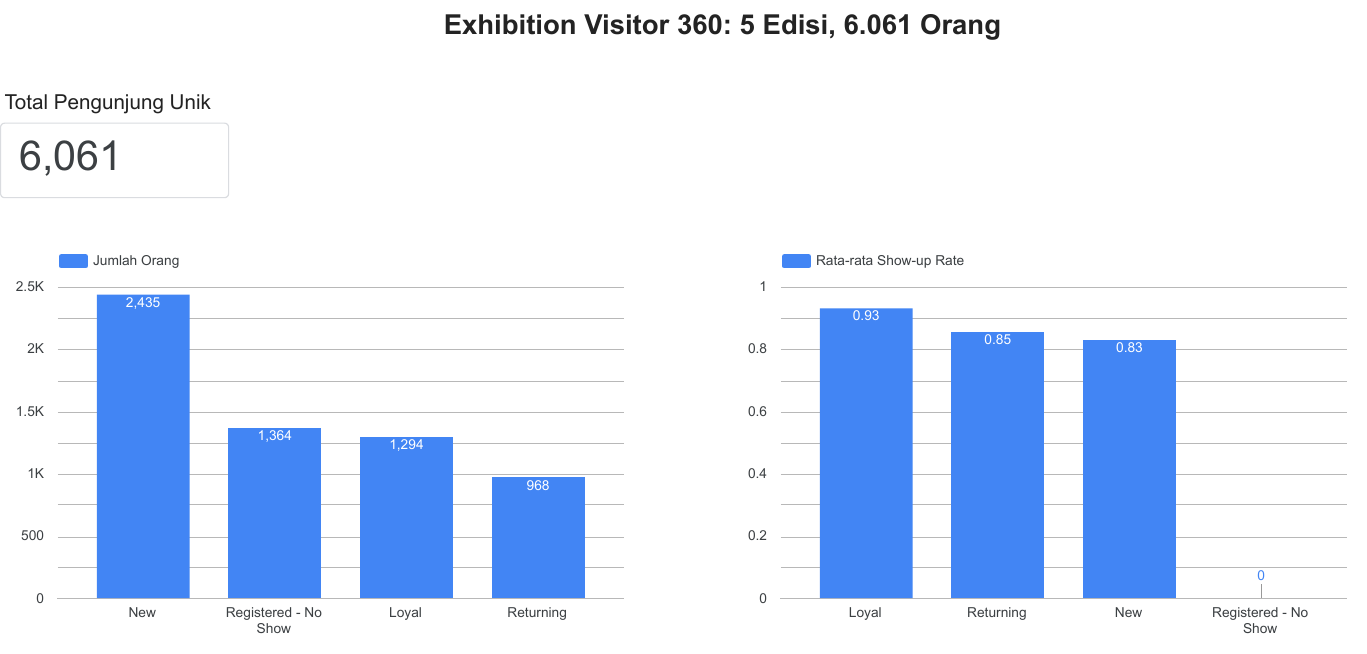
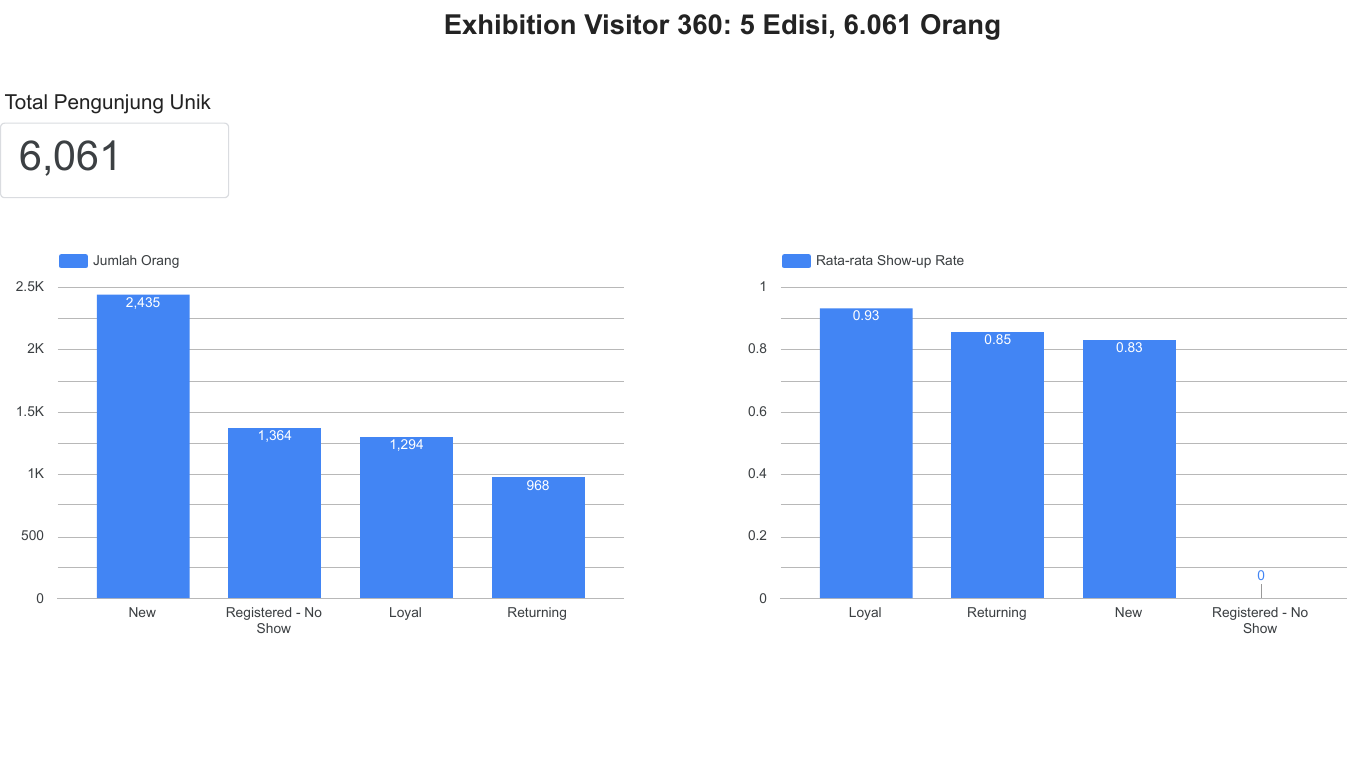
Add files via upload

diff --git a/exhibition-visitor-360.html b/exhibition-visitor-360.html
@@ -1,0 +1,91 @@
+<!DOCTYPE html>
+<html lang="en"><head><meta charset="utf-8"><meta name="viewport" content="width=device-width, initial-scale=1"><link rel="preconnect" href="https://fonts.googleapis.com"><link rel="preconnect" href="https://fonts.gstatic.com" crossorigin><link href="https://fonts.googleapis.com/css2?family=Familjen+Grotesk:wght@500;700&family=IBM+Plex+Sans:wght@400;500&display=swap" rel="stylesheet"><link rel="stylesheet" href="style.css"><script src="theme.js"></script><title>Exhibition Visitor 360 | Kemang Data</title></head>
+<body><div class="wrap">
+<header class="top"><a class="brand" href="index.html"><svg width="24" height="24" viewBox="0 0 24 24" aria-hidden="true"><g fill="#0e7c7b"><circle cx="5" cy="19" r="2.6"/><circle cx="12" cy="19" r="2.6"/><circle cx="12" cy="12" r="2.6"/><circle cx="19" cy="19" r="2.6"/><circle cx="19" cy="12" r="2.6"/></g><circle cx="19" cy="5" r="2.6" fill="#f2c811"/></svg>Kemang Data</a><nav><a href="index.html#projects">All projects</a><a href="#contact">Contact</a><button class="tg" id="tg" type="button" aria-label="Toggle dark mode">☾</button></nav></header>
+<main>
+<div class="case">
+<div class="case-text">
+<p class="eyebrow">SQL · BigQuery · Data quality</p>
+<h1>Exhibition Visitor 360</h1>
+<p class="sub">An exhibition organizer kept visitor data in 3 separate systems, and the numbers never matched. We cleaned and merged them in BigQuery into one table with one row per person, then checked the result against the official reports.</p>
+<ol class="flow" aria-label="Project steps">
+<li><b>1</b><div><strong>Load</strong><span>3 systems + official report, 5 editions</span></div></li>
+<li><b>2</b><div><strong><a href="#cleaning">Clean</a></strong><span>emails, phones, company names, duplicates</span></div></li>
+<li><b>3</b><div><strong><a href="#identity">Match people</a></strong><span>same email or phone = same person</span></div></li>
+<li><b>4</b><div><strong><a href="#recon">Check</a></strong><span>compare with official numbers &rarr;</span></div></li>
+</ol>
+<div class="kpis"><div><strong>6,061</strong><span>unique people</span></div><div><strong>99.0%</strong><span>data quality</span></div><div><strong>&le; 3</strong><span>registration gap</span></div></div>
+</div>
+<div class="views" id="views"><div class="vtabs" role="tablist" aria-label="Project views"><button type="button" role="tab" aria-selected="true">1 &middot; Dashboard</button><button type="button" role="tab" aria-selected="false">2 &middot; Reconciliation</button><button type="button" class="fs" id="fs">&#10530; Full screen</button></div><figure class="shot"><img src="exhibition-360-dashboard.png" alt="Exhibition Visitor 360 dashboard: 6,061 unique people split into four segments, with show-up rate per segment"><figcaption><b>Dashboard.</b> 6,061 unique people in 4 segments. Loyal visitors show up 93% of the time.</figcaption></figure><figure class="shot"><img src="exhibition-360-reconciliation.png" alt="Reconciliation table comparing raw and clean counts with the official report for each of 5 editions" loading="lazy"><figcaption><b>Reconciliation.</b> Our counts vs the official report, per edition, before and after cleaning.</figcaption></figure></div>
+</div>
+<section><h2>The problem</h2>
+<div class="cols">
+<div><h3>What was wrong</h3><ul>
+<li>Registrations (CRM) had duplicates, typo emails, mixed phone formats and company names written many ways.</li>
+<li>Attendance scans (ERP) had double scans and IDs with different casing or spaces.</li>
+<li>Campaign events (marketing, nested JSON) had duplicate events and emails in capital letters.</li>
+<li>Registrations were 126 to 157 higher than the official report in every edition.</li></ul></div>
+<div><h3>Questions nobody could answer</h3><ul>
+<li>How many unique people really came?</li>
+<li>Who are the loyal visitors that come every year?</li>
+<li>Which registered people never showed up?</li>
+<li>Can we trust the numbers in the official report?</li></ul></div></div></section>
+<section><h2>What we did</h2>
+<div class="cols">
+<div><h3>Pipeline (BigQuery SQL)</h3><ul>
+<li>Loaded 4 raw tables and kept them untouched.</li>
+<li>Wrote reusable SQL functions to clean email, phone and company name.</li>
+<li>Removed duplicate registrations, scans and events.</li>
+<li>Gave each person one ID by matching email or phone across all 3 systems.</li>
+<li>Built the visitor_360 table: editions attended, segment and campaign engagement.</li></ul></div>
+<div><h3>Segments</h3><ul>
+<li><strong>Loyal:</strong> attended 3 or more editions (1,294 people).</li>
+<li><strong>Returning:</strong> attended 2 editions (968).</li>
+<li><strong>New:</strong> attended 1 edition (2,435).</li>
+<li><strong>Registered, no show:</strong> never attended (1,364).</li></ul></div></div></section>
+<section id="cleaning"><h2>Step 2 &middot; Data quality, before and after</h2><p class="lead">Quality score is the average of completeness, validity, uniqueness, consistency and integrity checks.</p>
+<div class="tablebox"><table><thead><tr><th>Measure</th><th>Before</th><th>After</th></tr></thead><tbody>
+<tr><td>Data quality score</td><td class="b">75.5%</td><td class="a">99.0%</td></tr>
+<tr><td>Registration rows</td><td class="b">12,934</td><td class="a">12,218</td></tr>
+<tr><td>Phones in standard format</td><td class="b">23%</td><td class="a">98%</td></tr>
+<tr><td>Registration gap vs official report</td><td class="b">+126 to +157 per edition</td><td class="a">0 to +3 per edition</td></tr>
+</tbody></table></div>
+<p class="note">All data is synthetic and generated by a script (seed 42). No company data was used.</p></section>
+<section id="identity"><h2>Step 3 &middot; Matching people across systems</h2><p class="lead">Two records with the same clean email or the same clean phone are the same person. Example from the campaign step: remove duplicate events first, then attach a person ID.</p>
+<pre>CREATE OR REPLACE TABLE exhibition_cdp.stg_campaign_events AS
+WITH dedup AS (
+  SELECT * EXCEPT (rn)
+  FROM (
+    SELECT *, ROW_NUMBER() OVER (
+      PARTITION BY event_id ORDER BY event_timestamp) AS rn
+    FROM exhibition_cdp.raw_campaign_events
+  )
+  WHERE rn = 1
+)
+-- then clean email and phone, and join to person_id</pre>
+<p class="note">Checked against the answer key from the data generator: 0% wrong merges, and 99% of people kept whole.</p></section>
+<section id="recon"><h2>Step 4 &middot; Reconciliation with the official report</h2><p class="lead">Difference between our count and the official number, per edition. Closer to 0 is better.</p>
+<div class="tablebox"><table><thead><tr><th>Edition</th><th>Registrations before</th><th>Registrations after</th><th>Visitors before</th><th>Visitors after</th></tr></thead><tbody>
+<tr><td>NFE2024</td><td class="b">+126</td><td class="a">+2</td><td class="b">+135</td><td class="a">-12</td></tr>
+<tr><td>NFE2025</td><td class="b">+157</td><td class="a">0</td><td class="b">+101</td><td class="a">-7</td></tr>
+<tr><td>NFE2026</td><td class="b">+144</td><td class="a">+3</td><td class="b">+112</td><td class="a">-12</td></tr>
+<tr><td>PPI2025</td><td class="b">+143</td><td class="a">0</td><td class="b">+127</td><td class="a">-18</td></tr>
+<tr><td>PPI2026</td><td class="b">+153</td><td class="a">+2</td><td class="b">+128</td><td class="a">-14</td></tr>
+</tbody></table></div>
+<p class="note">Registrations now match almost exactly. Visitors end up 7 to 18 below the official figure (about 1%). The remaining gap comes from gate scans with no registration, which cannot be linked to a person. We report it as is instead of hiding it.</p></section>
+<section><h2>Tools</h2>
+<p class="lead">BigQuery (sandbox, free), SQL with CTEs, window functions, user-defined functions and nested JSON, Python (pandas) for the first version of the pipeline, and Data Studio for the dashboard.</p>
+<a class="btn big" href="https://github.com/bfandora97/exhibition-cdp">See the code on GitHub</a></section>
+<section class="contact" id="contact"><h2>Need a dashboard or cleaner data?</h2><p class="lead">Send us a sample of your data and what you want to track. We will tell you what we can build and how long it takes.</p><a class="btn big" href="https://wa.me/628182803290?text=Hi%20Kemang%20Data%2C%20I%20want%20to%20ask%20about%20a%20dashboard.">Chat me on WhatsApp</a><a class="btn" href="mailto:YOUR_EMAIL@example.com">Email us</a><a class="btn alt" href="https://www.upwork.com/freelancers/~0158490e0773382b79?mp_source=share">Upwork profile</a><a class="btn alt" href="https://github.com/bfandora97">GitHub</a><a class="btn alt" href="https://www.linkedin.com/in/bobbi-fandora/">LinkedIn</a></section>
+</main><footer><a href="index.html">← Back to all projects</a> · Kemang Data</footer></div><dialog id="lb" class="lb" aria-label="Full screen view"><img alt=""><button type="button" class="nav prev" aria-label="Previous image">‹</button><button type="button" class="nav next" aria-label="Next image">›</button><button type="button" class="x" aria-label="Close">✕</button></dialog>
+<script>(function(){var v=document.getElementById('views');if(!v)return;var t=[].slice.call(v.querySelectorAll('[role=tab]')),f=[].slice.call(v.querySelectorAll('.shot')),cur=0,lb=document.getElementById('lb'),li=lb.querySelector('img');
+function s(n){cur=n;t.forEach(function(b,i){b.classList.toggle('on',i===n);b.setAttribute('aria-selected',i===n?'true':'false');});f.forEach(function(e,i){e.hidden=i!==n;});}
+function big(){var im=f[cur].querySelector('img');li.src=im.src;li.alt=im.alt;if(lb.showModal)lb.showModal();}
+t.forEach(function(b,i){b.addEventListener('click',function(){s(i);});});
+f.forEach(function(e){e.querySelector('img').addEventListener('click',big);});
+document.getElementById('fs').addEventListener('click',big);
+function go(d){var n=(cur+d+f.length)%f.length,im=f[n].querySelector('img');s(n);li.src=im.src;li.alt=im.alt;}
+lb.querySelector('.prev').addEventListener('click',function(e){e.stopPropagation();go(-1);});
+lb.querySelector('.next').addEventListener('click',function(e){e.stopPropagation();go(1);});
+lb.addEventListener('keydown',function(e){if(e.key==='ArrowRight')go(1);else if(e.key==='ArrowLeft')go(-1);});
+lb.addEventListener('click',function(){lb.close();});s(0);})();</script></body></html>

diff --git a/index.html b/index.html
@@ -16,7 +16,7 @@
 <div class="grid"><a class="card rv" style="--d:.1s" href="powerbi-visitor-dashboard.html"><img src="dashboard.png" alt="Event Visitor Registration Dashboard preview"><div>
 <h3>Event Visitor Registration Dashboard</h3>
 <p>Combined 3 messy registration files, cleaned them, and built a dashboard for attendance and channel performance.</p>
-<ul class="tools"><li>Power BI</li><li>Power Query</li><li>DAX</li></ul></div></a><a class="card rv" style="--d:.2s" href="https://github.com/bfandora97/exhibition-cdp"><img src="exhibition-360.png" alt="Exhibition Visitor 360 dashboard preview"><div>
+<ul class="tools"><li>Power BI</li><li>Power Query</li><li>DAX</li></ul></div></a><a class="card rv" style="--d:.2s" href="exhibition-visitor-360.html"><img src="exhibition-360.png" alt="Exhibition Visitor 360 dashboard preview"><div>
 <h3>Exhibition Visitor 360</h3>
 <p>Unified 3 messy systems into one visitor table with BigQuery SQL. Data quality score 75.5% to 99.0%, registration gap vs official report cut from +157 to 3 at most.</p>
 <ul class="tools"><li>BigQuery</li><li>SQL</li><li>Python</li><li>Data Studio</li></ul></div></a><div class="card ph rv" style="--d:.3s"><div><h3>Python</h3><p>Coming soon</p></div></div></div></section>
